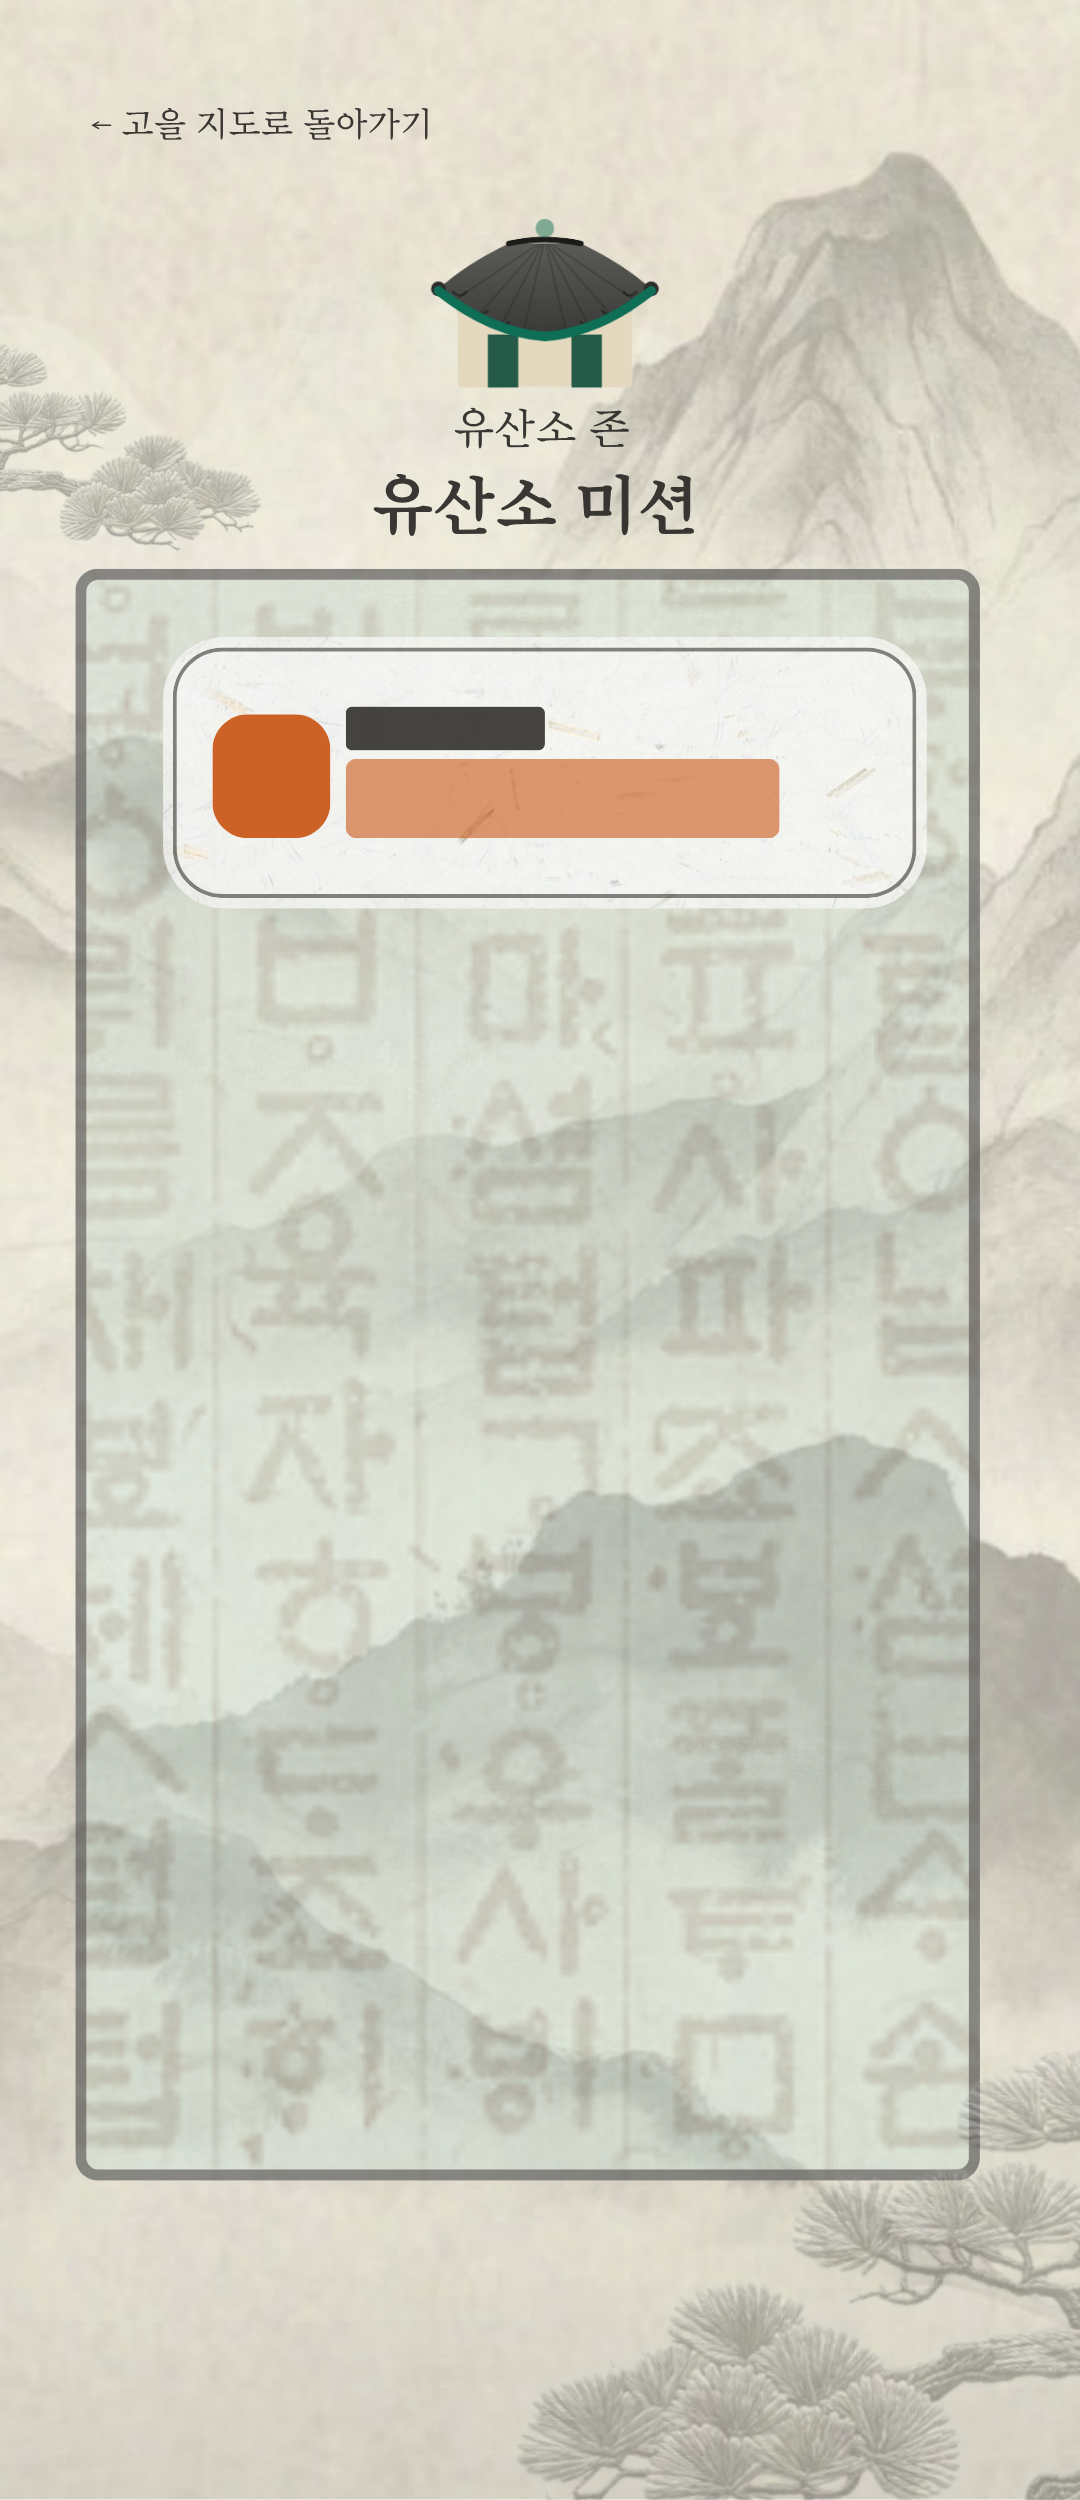
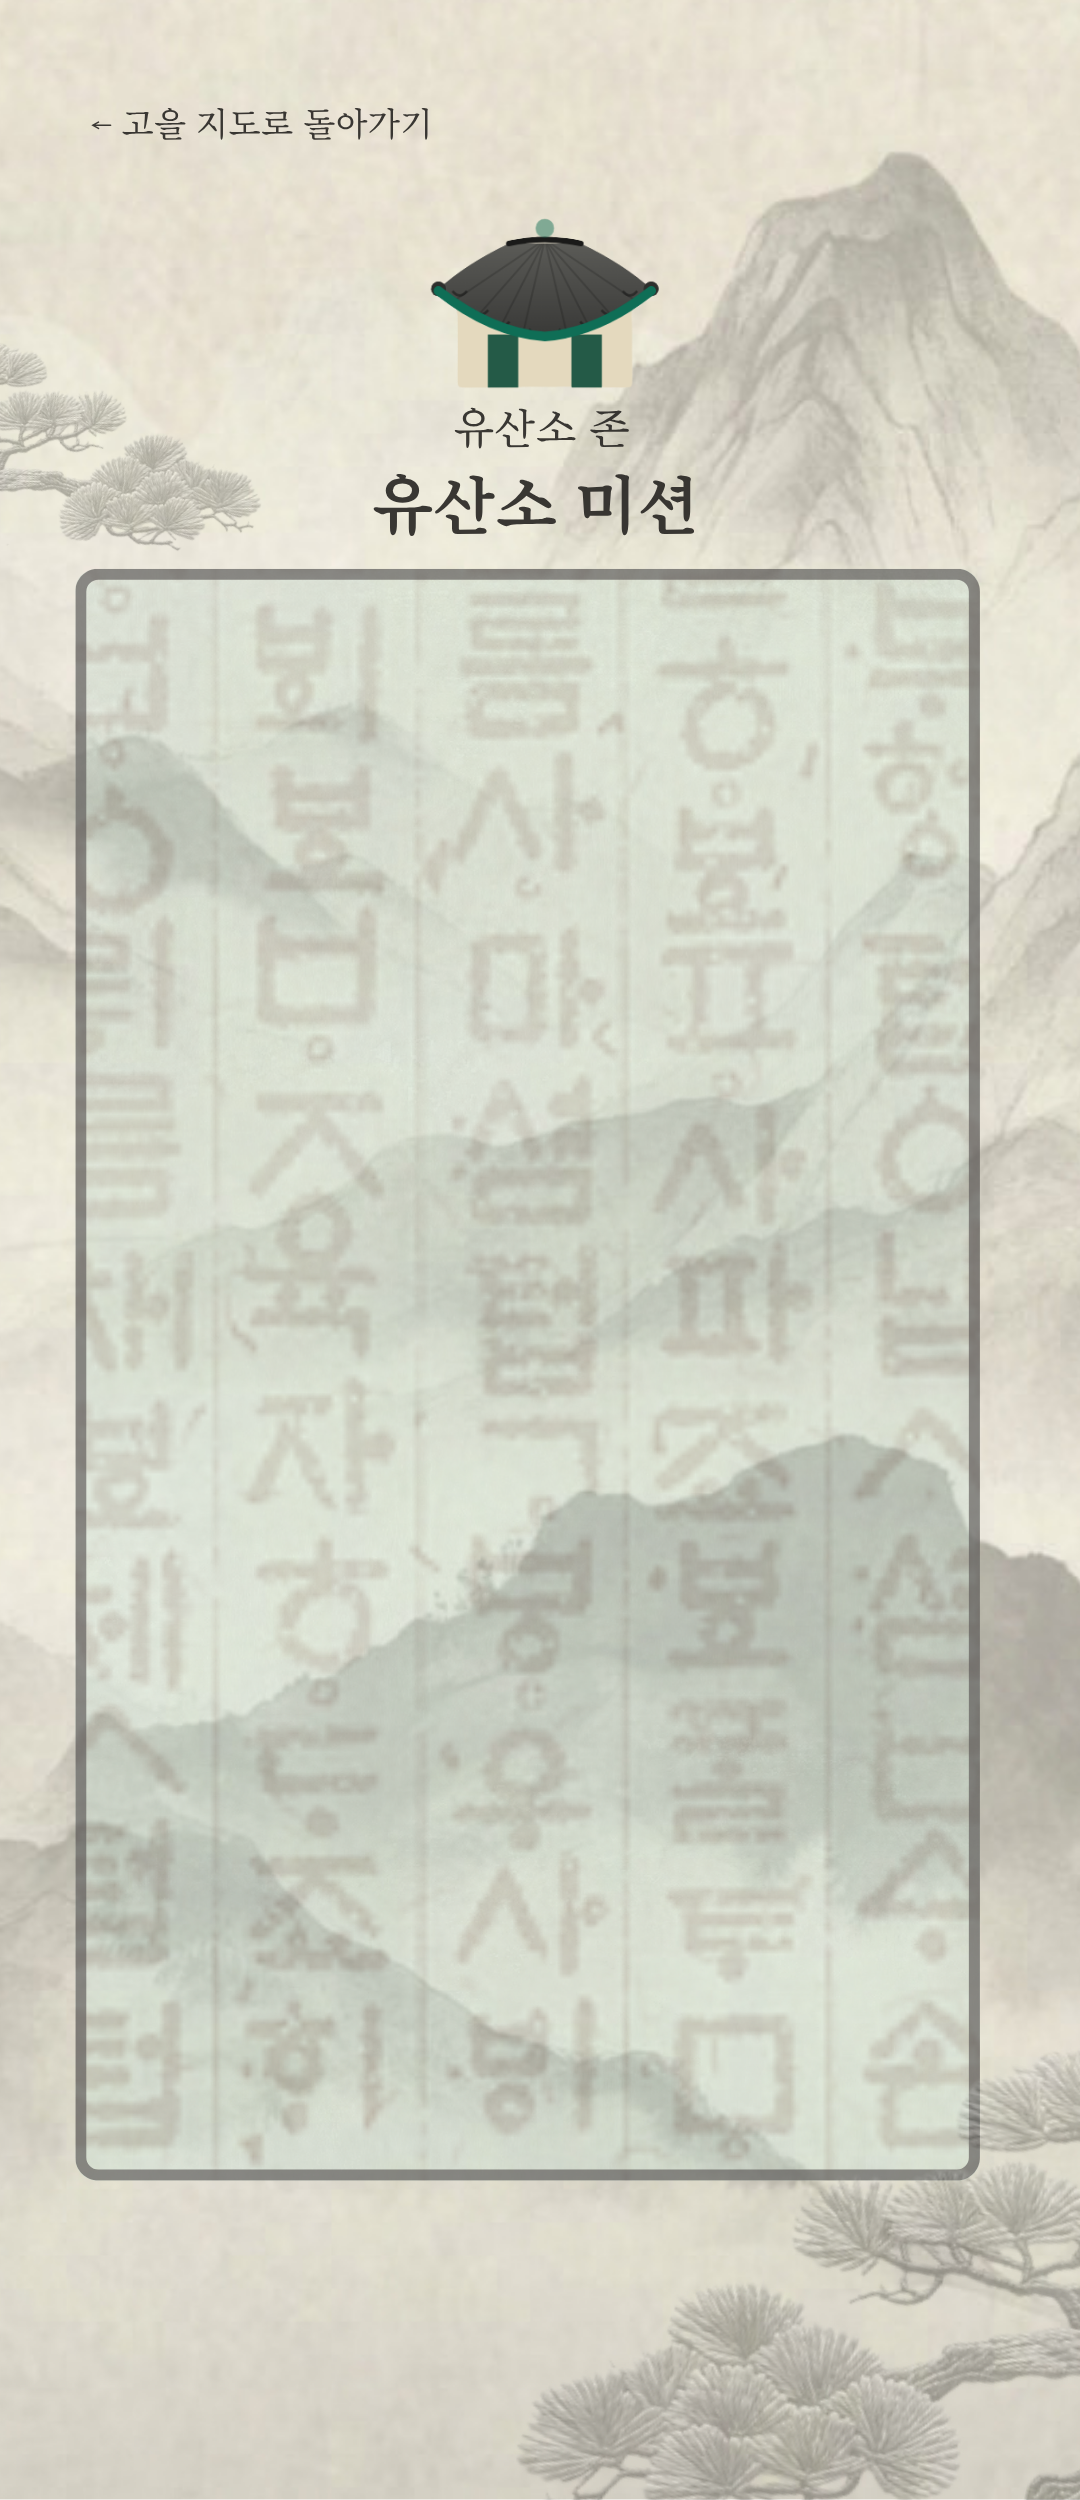
Composite the real mission-card asset instead of a CSS-drawn card
The user provided a standalone card graphic (미션팝업.png, paper
texture + orange icon slot + dark badge + peach name bar) plus clean
versions of the 4 zone backgrounds with no baked example card. Use
the card asset as each mission-item's background image and overlay
the icon/badge/name text at the exact positions measured from the
asset, so the mission list now matches the real artwork pixel for
pixel instead of approximating it with flat CSS shapes. Verified the
done/checked state, all 4 zones, and the map's progress gauge sync
still work correctly.

Changed region(s): [[0.1528, 0.2496, 0.8556, 0.3744]]

diff --git a/demos/gym_map.html b/demos/gym_map.html
@@ -154,42 +154,56 @@ body{
 .mission-list{
   position:absolute;
   left:16.2%;top:25.9%;width:68%;
-  display:flex;flex-direction:column;gap:1.3%;
+  display:flex;flex-direction:column;gap:3%;
 }
 .mission-item{
-  display:flex;align-items:center;gap:10px;
-  border:1px solid #ddd8cc;border-radius:14px;padding:10px;
-  background:#FBF9F4;
+  position:relative;
+  width:100%;
+  aspect-ratio:764/273;
+  background-image:url('https://raw.githubusercontent.com/gran-seoul-fitness/10-/claude/happy-wozniak-zu6wr0/images/health/mission_card.png');
+  background-size:100% 100%;
+  background-repeat:no-repeat;
   cursor:pointer;
   transition:transform .12s ease;
 }
 .mission-item:active{transform:scale(0.98);}
 .mission-icon{
-  width:42px;height:42px;border-radius:11px;flex-shrink:0;
-  background:#CD6226;
+  position:absolute;
+  left:6.5%;top:28.6%;width:15.2%;height:45.1%;
+  border-radius:24%;
   display:flex;align-items:center;justify-content:center;
-  color:#FBF9F4;font-size:17px;font-weight:700;
+  color:#FBF9F4;font-size:15px;font-weight:700;
+  background:transparent;
   transition:background .15s ease;
 }
 .mission-item.done .mission-icon{background:var(--teal);}
-.mission-body{flex:1;min-width:0;display:flex;flex-direction:column;gap:5px;}
 .mission-badge{
-  align-self:flex-start;
-  background:var(--ink);color:#F7F5F0;
-  font-size:8.5px;font-weight:700;
-  padding:3px 8px;border-radius:20px;
-  letter-spacing:0.3px;
+  position:absolute;
+  left:23.9%;top:26%;width:25.9%;height:15.4%;
+  display:flex;align-items:center;justify-content:center;
+  color:#F7F5F0;font-size:8px;font-weight:700;
+  letter-spacing:0.2px;
+  white-space:nowrap;
 }
 .mission-name-bar{
-  background:#DA966E;border-radius:9px;
-  padding:7px 10px;
-  font-size:12.5px;font-weight:700;color:#2A2320;
-  transition:background .15s ease, color .15s ease;
+  position:absolute;
+  left:26%;top:45.1%;width:53%;height:28.6%;
+  display:flex;align-items:center;
+  font-size:12px;font-weight:700;color:#2A2320;
+  transition:color .15s ease;
+  overflow:hidden;
 }
 .mission-item.done .mission-name-bar{
-  background:rgba(28,28,26,0.08);
-  color:var(--ink-soft);
+  color:rgba(42,35,32,0.55);
   text-decoration:line-through;
+}
+.mission-item.done::after{
+  content:'';
+  position:absolute;
+  left:23.9%;top:45.1%;width:56.5%;height:28.6%;
+  background:rgba(255,255,255,0.4);
+  border-radius:8px;
+  pointer-events:none;
 }
 </style>
 </head>
@@ -410,10 +424,8 @@ function renderMissionList(key){
     item.dataset.key = missionKey;
     item.innerHTML = `
       <div class="mission-icon">${isDone ? '✓' : missionIcons[key]}</div>
-      <div class="mission-body">
-        <div class="mission-badge">미션 ${ordinal}</div>
-        <div class="mission-name-bar">${m}</div>
-      </div>`;
+      <div class="mission-badge">미션 ${ordinal}</div>
+      <div class="mission-name-bar">${m}</div>`;
     list.appendChild(item);
   });
 }
